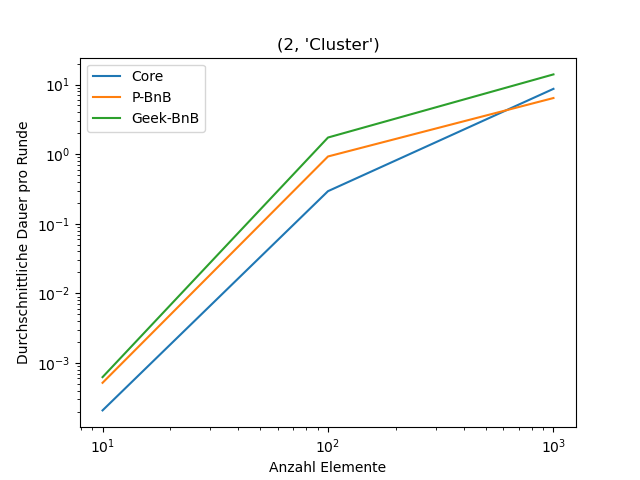
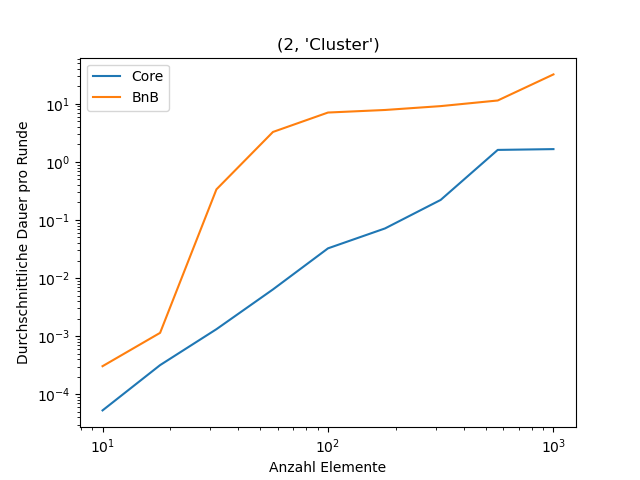
Bnb beschleunigt, durch ausnutzung der Sortierung

diff --git a/test.py b/test.py
@@ -18,6 +18,7 @@ class Item:
 core_werte =[]
 full_core_werte =[]
 pbnb_werte =[]
+pbnb_half_werte =[]
 bnb_werte =[]
 setsize=[10,18,32,57,100,179, 316, 566, 1000]
 
@@ -27,6 +28,7 @@ for f in setsize:
     full_core_gesamtzeit = 0
     bnb_gesamtzeit = 0
     ichs2_gesamtzeit = 0
+    ichs3_gesamtzeit = 0
     geeks_gesamtzeit = 0
     pareto_gesamtzeit = 0
     global geeks_start_time
@@ -39,7 +41,7 @@ for f in setsize:
     richtig = 0
     abbruch_zeit = 300 #Zeit bis die Algoryths Abbrechen
     setprint = False #sollen wa das Set drucken
-    runden = 10
+    runden = 100
     set = 1
     clusteranzahl = 2  # Wenn Set == 2 relevant
     spread = 1e9 # Wenn Set == 3 relevant
@@ -68,7 +70,7 @@ for f in setsize:
                 """Value Wert knapp über Weight Wert"""
                 for i in range(elemente):
                     weight = random.randint(1, int(1e10))  # zufälliges Gewicht
-                    value = weight+random.randint(1, int(2*1e9))  # Value ist X% höher als maximal Gewicht
+                    value = weight+random.randint(1, int(4*1e9))  # Value ist X% höher als maximal Gewicht
                     arr.append(Item(weight, value))
                     stonks = value / weight  # Effizienz der Items
                     number = i
@@ -462,7 +464,6 @@ for f in setsize:
         def priority_bound(u, n, arr):
             # Calculate the upper bound of profit for a node in the search tree
             global ich2_runden
-            ich2_runden += 1
             if u.space < 0:
                 return 0
 
@@ -472,7 +473,7 @@ for f in setsize:
             # print(j,profit_bound)
 
             # Greedily add items to the knapsack until the weight limit is reached
-            while j < n and restspace - arr[j].weight > 0:
+            while j < n and restspace >= arr[j].weight:
                 ich2_runden += 1
                 restspace -= arr[j].weight
                 profit_bound += arr[j].value
@@ -484,7 +485,7 @@ for f in setsize:
             return profit_bound
 
 
-        def priority_BnB(W, arr, n, greedy):
+        def priority_BnB(W, arr, n, greedy,half):
             # Sort items based on value-to-weight ratio in non-ascending order
             arr.sort(key=lambda x: x.value / x.weight, reverse=True)
 
@@ -498,7 +499,7 @@ for f in setsize:
                 u = priority_queue.get()
 
                 if u.level == -1:
-                    v = Toms_Node(0, W, 0, 0)  # Starting node
+                    v = Toms_Node(0, W, int(relaxierte_loesung), 0)  # Starting node
                 elif u.profit_bound < max_profit:
                     continue  # Skip if best upper Bound < best Lower Bound
                 else:
@@ -511,9 +512,12 @@ for f in setsize:
                 if v.space >= 0 and v.festwert > max_profit:
                     max_profit = v.festwert
 
-                v.profit_bound = priority_bound(v, n, arr)
+                if half == False:
+                    v.profit_bound = priority_bound(v, n, arr)
+
+
                 # If the bound value is greater than current maxProfit, add the node to the priority queue for further consideration
-                if v.profit_bound > max_profit:
+                if v.profit_bound > max_profit and v.space >0:
                     priority_queue.put(v)
 
                 # Nächstes Item wird nicht hinzugefügt
@@ -522,7 +526,7 @@ for f in setsize:
                 # If the profit_bound value is greater than current maxProfit, add the node to the priority queue for further consideration
                 if v.profit_bound > max_profit:
                     priority_queue.put(v)
-                if(time.perf_counter()-ichs2_start_time > abbruch_zeit):
+                if(time.perf_counter()-ichs3_start_time > abbruch_zeit):
                     print("Priority Abbruch")
                     return max_profit
             return max_profit
@@ -616,9 +620,14 @@ for f in setsize:
         #geeks_gesamtzeit += (time.perf_counter()-geeks_start_time)
 
         # Meine 2. BnB Version mit Nodes und Proirity Queue
-        ichs2_start_time = time.perf_counter()
-        mein_max_profit = priority_BnB(W, arr, n, greedy)
-        ichs2_gesamtzeit += (time.perf_counter() - ichs2_start_time)
+        #ichs2_start_time = time.perf_counter()
+        #mein_max_profit = priority_BnB(W, arr, n, greedy,False)
+        #ichs2_gesamtzeit += (time.perf_counter() - ichs2_start_time)
+
+        # Meine 3. BnB Version mit Nodes und Proirity Queue die Sortierung besser nutzt
+        ichs3_start_time = time.perf_counter()
+        mein_2_max_profit = priority_BnB(W, arr, n, greedy,True)
+        ichs3_gesamtzeit += (time.perf_counter() - ichs3_start_time)
 
         # Core Funktion
         #core_value, core_laufzeit = core(gesamt_volumen, items_for_core, False)
@@ -639,8 +648,8 @@ for f in setsize:
         # pareto_gesamtzeit += time.perf_counter() - pareto_start_time
 
         # Tester ob alles stimmt
-        if (mein_max_profit == full_core_value ):
-            #core_value == == max_profit
+        if ( full_core_value ==mein_2_max_profit ):
+            #core_value == mein_max_profit == == max_profit
             richtig += 1
 
         """
@@ -663,15 +672,17 @@ for f in setsize:
     # print("Die Durchschnittliche Nemhauser Ulmann Laufzeit war: ", pareto_gesamtzeit/runden)
     # print("Die Durchschnittliche Branch_Bound Laufzeit war:", bnb_gesamtzeit/runden)
     #print("Die Durchschnittliche Geeks BnB Laufzeit war:", geeks_gesamtzeit/runden)
-    print("Die Durchschnittliche Priority BnB Laufzeit war:", ichs2_gesamtzeit / runden)
+    #print("Die Durchschnittliche Priority BnB Laufzeit war:", ichs2_gesamtzeit / runden)
+    print("Die Durchschnittliche Priority BnB Laufzeit war:", ichs3_gesamtzeit / runden)
     print("Deine Erfolgsrate liegt bei ", (richtig / runden) * 100, "%")
     # print("Ich hab durchschnittlich so viele Runden gebraucht:", ichs_runden/runden)
     print("Priority BnB hat durchschnittlich so viele Runden gebraucht:", ich2_runden / runden)
     #print("Geeks hat durchschnittlich so viele Runden gebraucht:", geeks_runden/runden)
     print("Core hat Durchschnittlich soviele Pareto Lösungen produziert:", core_pareto/runden)
-    core_werte.append(core_gesamtzeit/runden)
+    #core_werte.append(core_gesamtzeit/runden)
     full_core_werte.append(full_core_gesamtzeit/runden)
-    pbnb_werte.append(ichs2_gesamtzeit/runden)
+    #pbnb_werte.append(ichs2_gesamtzeit/runden)
+    pbnb_half_werte.append(ichs3_gesamtzeit/runden)
     bnb_werte.append(geeks_gesamtzeit/runden)
 
 # line 1 points
@@ -687,8 +698,14 @@ y1 = full_core_werte
 plt.plot(x1, y1, label = "Core")
 
 # line 2 points
+#x2 = setsize
+#y2 = pbnb_werte
+# plotting the line 2 points
+#plt.plot(x2, y2, label = "BnB")
+
+# line 2.1 points
 x2 = setsize
-y2 = pbnb_werte
+y2 = pbnb_half_werte
 # plotting the line 2 points
 plt.plot(x2, y2, label = "BnB")
 